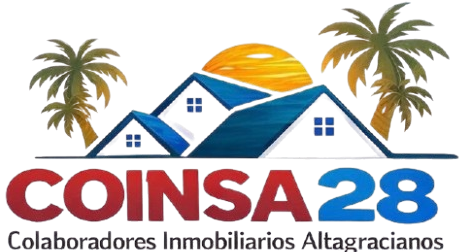
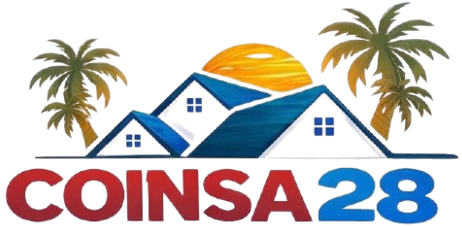
f

diff --git a/css/styles.css b/css/styles.css
@@ -2401,6 +2401,33 @@ input.input-error {
     font-size: 2.2rem;
 }
 
+.sponsor-lema {
+    font-family: var(--font-textos);
+    font-size: 0.75rem;
+    font-weight: 600;
+    letter-spacing: 2px;
+    color: var(--oro-terrenal);
+    text-transform: uppercase;
+    margin-top: 5px;
+    opacity: 0.9;
+    text-shadow: 0 1px 4px rgba(0, 0, 0, 0.5);
+    max-width: 90%;
+    line-height: 1.4;
+    position: relative;
+    padding-bottom: 10px;
+}
+
+.sponsor-lema::after {
+    content: '';
+    position: absolute;
+    bottom: 0;
+    left: 50%;
+    transform: translateX(-50%);
+    width: 40px;
+    height: 1px;
+    background: linear-gradient(90deg, transparent, var(--oro-terrenal), transparent);
+}
+
 .btn-sponsor {
     display: inline-block;
     background-color: transparent;
@@ -3054,6 +3081,11 @@ footer {
     
     .sponsor-card h3 {
         font-size: 1.1rem;
+    }
+
+    .sponsor-lema {
+        font-size: 0.6rem;
+        letter-spacing: 1px;
     }
 
     footer { padding: 40px 20px 100px; }

diff --git a/index.html b/index.html
@@ -207,6 +207,7 @@
                             <img src="assets/img/patrocinadores/coinsa-28.png" alt="COINSA 28">
                         </div>
                         <h3>COINSA 28</h3>
+                        <p class="sponsor-lema">Colaboradores Inmobiliarios Altagracianos</p>
                     </div>
 
                     <div class="sponsor-card">
@@ -796,7 +797,7 @@
                     <span>ENVIAR COMPROBANTE POR WHATSAPP</span>
                 </a>
 
-                <p class="pago-gracias">¡Gracias por ser parte! 🌿</p>
+                <p class="pago-gracias">¡¡Gracias por ser parte! 🌿</p>
             </div>
         </section>
 
